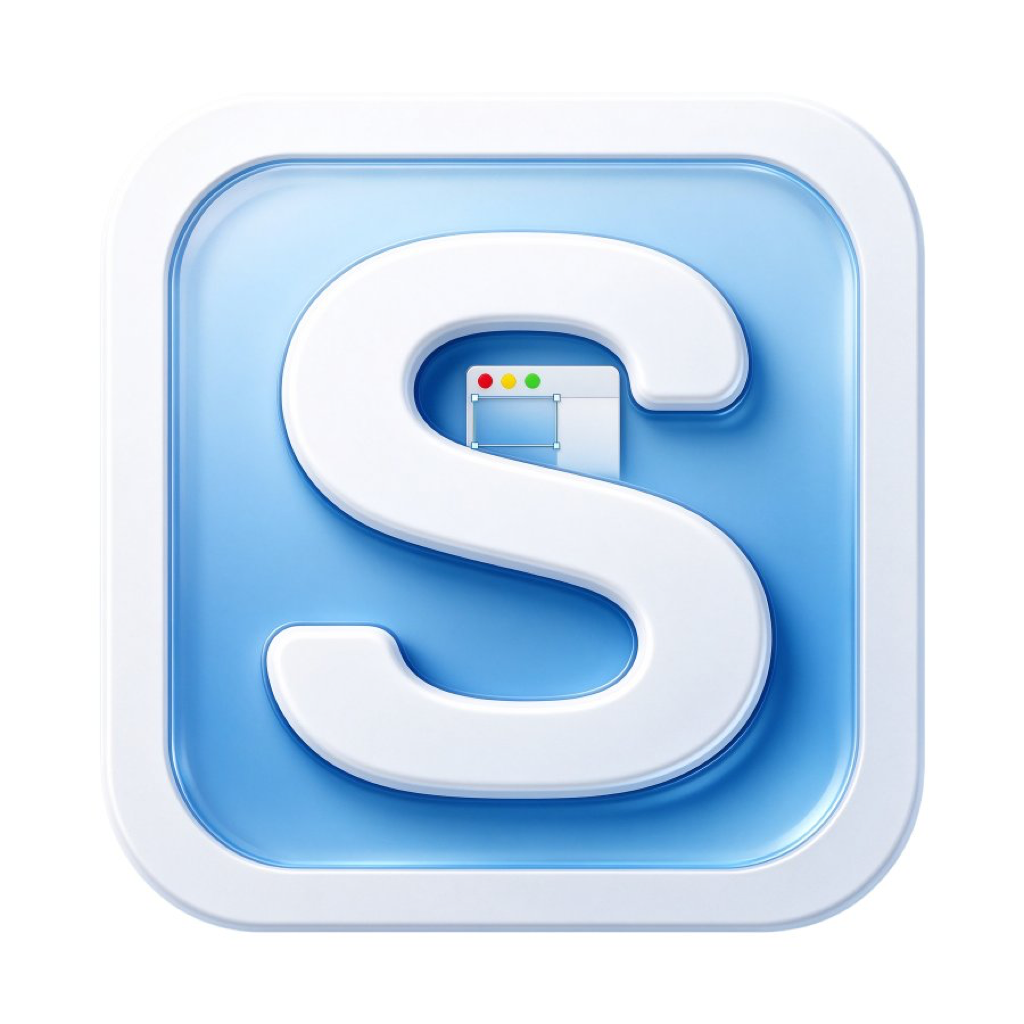
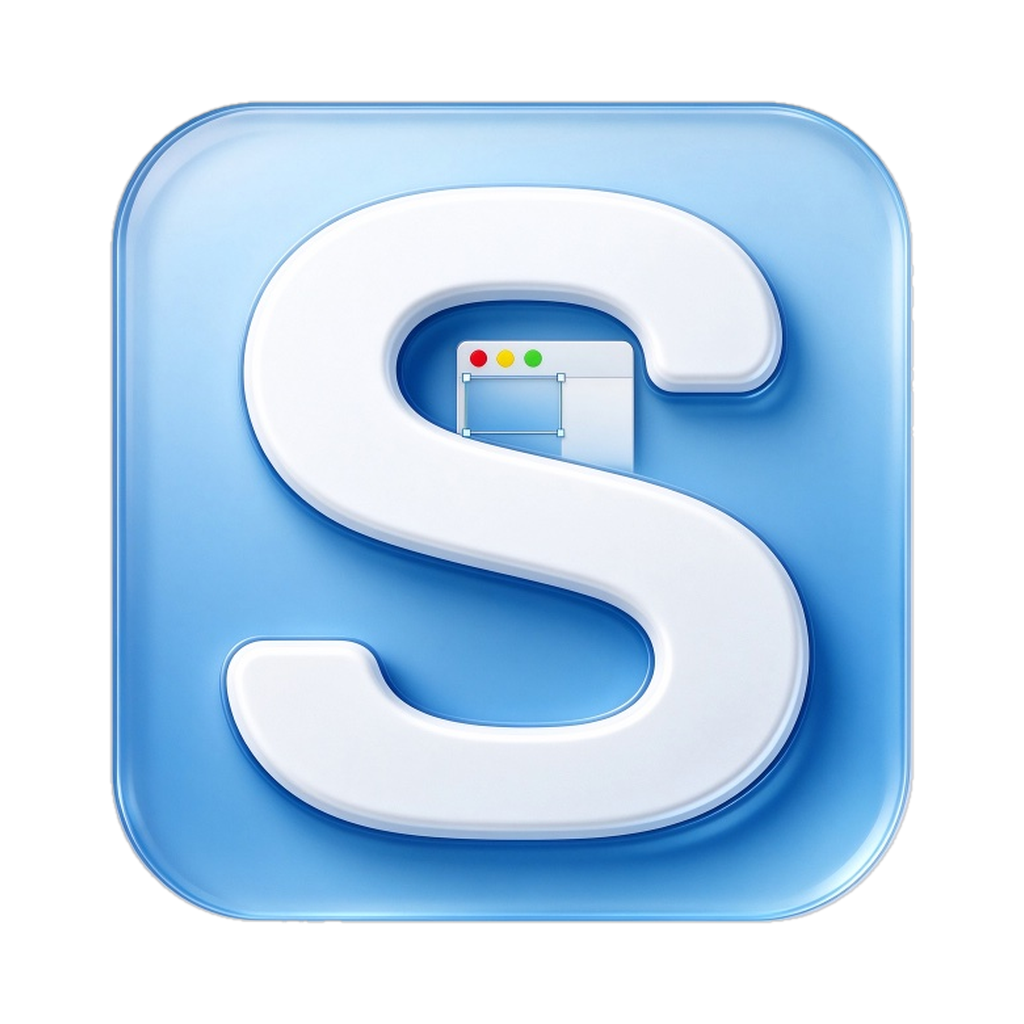
1.0.9 同版本修订：换新图标母版、提示音只在完成时响、取景框三档改为 170/150/140

diff --git a/Sources/BoxShot/Core/Preferences.swift b/Sources/BoxShot/Core/Preferences.swift
@@ -49,9 +49,10 @@ enum RecordFileFormat: String, Codable, CaseIterable, Identifiable {
 
 /// 录制时右下角摄像头取景框的大小。
 ///
-/// 三档是"相对倍数"而不是三组绝对值：取景框本身的基准边长要跟着选区大小走
-/// （选区只有 300pt 宽时固定 200pt 的圆会挡掉半个画面），所以只能定相对档位。
-/// 用户口径：现在的观感算「小」，「中」比「小」大 10%，「大」比「中」大 10%。
+/// 用户口径（1.0.9 修订）：直接给边长点数 —— 大 170 / 中 150 / 小 140。
+/// 早前是按选区短边算倍数，用户要的是"我说多大就多大"，所以改成绝对值；
+/// 只在选区本身太小时才收一收（见 `CameraBubbleController.fittedSide`），
+/// 否则取景框会把被录的内容整块盖住。
 enum CameraBubbleSize: String, Codable, CaseIterable, Identifiable {
     case large
     case medium
@@ -65,12 +66,12 @@ enum CameraBubbleSize: String, Codable, CaseIterable, Identifiable {
         case .small:  return "小"
         }
     }
-    /// 相对「小」的倍数
-    var scale: CGFloat {
+    /// 取景框（圆形直径 / 圆角矩形宽度）的边长，单位 pt
+    var side: CGFloat {
         switch self {
-        case .small:  return 1.0
-        case .medium: return 1.1
-        case .large:  return 1.21      // 1.1 × 1.1：大一档再大 10%
+        case .large:  return 170
+        case .medium: return 150
+        case .small:  return 140
         }
     }
 }

diff --git a/Sources/BoxShot/App/AppModel.swift b/Sources/BoxShot/App/AppModel.swift
@@ -227,16 +227,22 @@ final class AppModel: ObservableObject {
     }
 
     /// 截好的图按 pending 设定分流：直接复制 / OCR / QR / 原位浮层
+    ///
+    /// 🔴 这里**不播提示音**（1.0.9 用户口径）。"截图完成"指的是这件事有了结果：
+    /// OCR 出字、识别码出内容、复制进剪贴板、保存成文件。只是把画面抓下来、
+    /// 弹出个空浮层不算完成 —— 以前一抓就响，等于每张图都先响一次，
+    /// 后面复制/保存又响一次，用户听到的是一串莫名其妙的叮叮声。
     private func routeCapturedImage(_ image: CGImage, overlayFrame frame: CGRect? = nil,
                                     fullDisplay: OverlayEditorController.FullDisplay? = nil) {
-        playFeedbackSound()
         // 历史先记：不管后面是弹浮层还是直接复制，这张图都得留痕
         ShotHistoryStore.shared.record(image, limit: prefs.value.maxShotHistory)
         switch pendingPipeline {
         case .editor:
             // "截图后弹出标注浮层"关掉时 = 直接复制到剪贴板，不弹任何界面
+            // （这也是"完成"的一种，所以要响）
             if pendingCopyDirectly || !prefs.value.openEditorAfterShot {
                 Support.copyImageToClipboard(image)
+                playFeedbackSound()
             } else if let frame {
                 openOverlayEditor(image: image, frame: frame, fullDisplay: fullDisplay)
             } else {

diff --git a/Sources/BoxShot/Capture/CameraBubble.swift b/Sources/BoxShot/Capture/CameraBubble.swift
@@ -91,14 +91,13 @@ final class CameraBubbleController {
 
     // ── 位置 ────────────────────────────────────────────────
 
-    /// 基础边长 = 选区短边的 1/4（夹在 96…200pt），再按设置里的档位放大。
+    /// 取景框边长 = 设置里的档位（大 170 / 中 150 / 小 140 pt）。
     ///
-    /// 刻意用"相对档位"而不是三组绝对值：选区本身可能只有 300pt 宽，
-    /// 固定 200pt 的圆会挡掉半个画面。档位只负责在小/中/大之间挪 10%，
-    /// 基准仍然跟着选区走。用户口径：现在的观感 = 小。
+    /// 只在选区**短边的一半**放不下时才收一收：170pt 的圆压在 300×200 的选区上
+    /// 会把被录的内容盖掉大半，那时按 45% 短边收（最小 96pt）。正常大小的选区
+    /// 完全按设置的数值来 —— 用户要的是"我设 170 就是 170"。
     private func fittedSide(for anchor: CGRect) -> CGFloat {
-        let base = min(200, max(96, min(anchor.width, anchor.height) / 4))
-        return base * size.scale
+        min(size.side, max(96, min(anchor.width, anchor.height) * 0.45))
     }
 
     private func position(_ panel: NSPanel, anchor: CGRect) {

diff --git a/Sources/BoxShot/App/SelfTest.swift b/Sources/BoxShot/App/SelfTest.swift
@@ -273,10 +273,12 @@ enum SelfTest {
 
         // ── 取景框档位 ──
         do {
-            // 用户口径：现在（小）是基准，中比小大 10%，大比中大 10%
-            check("取景框小 = 基准", abs(CameraBubbleSize.small.scale - 1.0) < 0.0001)
-            check("取景框中比小大 10%", abs(CameraBubbleSize.medium.scale / CameraBubbleSize.small.scale - 1.1) < 0.0001)
-            check("取景框大比中大 10%", abs(CameraBubbleSize.large.scale / CameraBubbleSize.medium.scale - 1.1) < 0.0001)
+            // 用户口径（1.0.9 修订）：绝对值 大 170 / 中 150 / 小 140
+            check("取景框大 = 170pt", CameraBubbleSize.large.side == 170)
+            check("取景框中 = 150pt", CameraBubbleSize.medium.side == 150)
+            check("取景框小 = 140pt", CameraBubbleSize.small.side == 140)
+            check("取景框三档递增", CameraBubbleSize.small.side < CameraBubbleSize.medium.side
+                  && CameraBubbleSize.medium.side < CameraBubbleSize.large.side)
             check("取景框三档标题是 大/中/小",
                   CameraBubbleSize.large.title == "大"
                   && CameraBubbleSize.medium.title == "中"

diff --git a/README.md b/README.md
@@ -243,11 +243,19 @@ firstResponder，`keyDown` 永远收不到 —— 界面上看着像在等按键
 
 八档（Blow / Bottle / Funk / Glass / Hero / Morse / Ping / Purr），中文名照搬 BoxPaste，旁边有「试听」。播放点统一走 `AppModel.playFeedbackSound()`（开关和音效名都在设置里）；录制收尾那条在 `Recorder` 里拿不到 model，改由工具条注入 `finishedSoundName` —— 顺手修掉「关了提示音，录完还是会叮一声」。
 
+### 什么时候才响（用户口径：截完了才响）
+
+"完成"= 这件事有了结果：**OCR 出字、识别码出内容、复制进剪贴板、保存成文件**。
+
+抓下画面本身**不算**完成 —— 以前 `routeCapturedImage` 一开头就响，后面复制/保存再响一次，一张图能叮两声，听着莫名其妙。现在那一声挪到"直接复制"分支里（那条路径确实是完成），其余各控制器（浮层、独立编辑窗、滚动截图、历史面板、录制收尾）各自在自己完成的那一刻响。
+
 存量配置里可能记着已下线的音效名，解码时校验一遍并落回 `Glass`，否则设置页 Picker 会显示空白。
 
-## 摄像头取景框：三档尺寸
+## 摄像头取景框：三档尺寸（绝对值）
 
-设置 → 录制 → 质量下面：大 / 中（默认）/ 小。**是相对倍数不是绝对值**（小 = 1.0，中 = 1.1，大 = 1.21），因为基准边长必须跟着选区走（选区只有 300pt 宽时，固定 200pt 的圆会挡掉半个画面）：`min(200, max(96, 短边 / 4)) × 档位`。用户口径是"现在这个大小算小"。
+设置 → 录制 → 质量下面：**大 170 / 中（默认）150 / 小 140**（pt，圆形取直径、圆角矩形取宽度）。
+
+一开始做的是"相对倍数"（跟着选区短边算），用户明确要"我说多大就多大"，于是改成绝对值。只在选区**短边的一半**放不下时才收一收 —— `min(档位, max(96, 短边 × 0.45))`：170pt 的圆压在 300×200 的选区上会把要录的内容盖掉大半，这种极端情况按比例缩，正常尺寸完全照设置的数值来。
 
 ## Retina 1x 与「改截图框」的冲突
 
@@ -265,7 +273,18 @@ Sources/BoxShot/
 ├── Editor/                 AnnotationModels（数据模型 + 渲染器）、EditorView、EditorWindow
 ├── Pin/                    PinController（贴图窗 + 历史）
 └── UI/                     StatusItemController、SettingsView、ResultWindow、HistoryWindow
+
+Resources/
+├── icon-master.png         图标母版（1024×1024 RGBA，图形 824 居中）
+├── icon-master.jpg         同一张的 JPEG 备份
+└── Info.plist              打包时注入版本号
 ```
+
+### 换图标只换母版
+
+`build-app.sh` 每次都从 `Resources/icon-master.png` 重新生成整套 iconset → icns（同母版同字节，可复现）。所以换图标**只改这一个文件**，别去动 icns：新图先按 macOS 的图标网格处理成 1024×1024、图形 824 居中、四周透明，再覆盖母版。
+
+抠图别用"颜色接近白就透明"—— 这枚图标主体本身就是白色的字母 S，会被抠出洞。做法是从**四角泛洪**只吃掉与边缘连通的白色，再给 alpha 加 0.9px 高斯羽化（JPEG 的硬边直接抠会留一圈白线）。
 
 ### 几个不能改坏的约束
 
